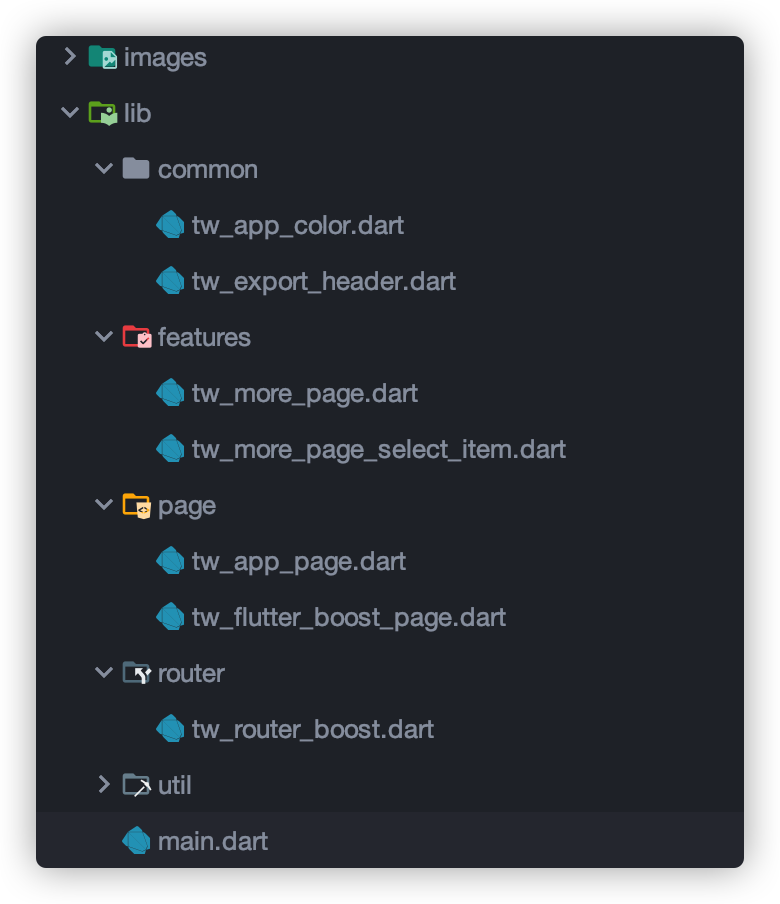
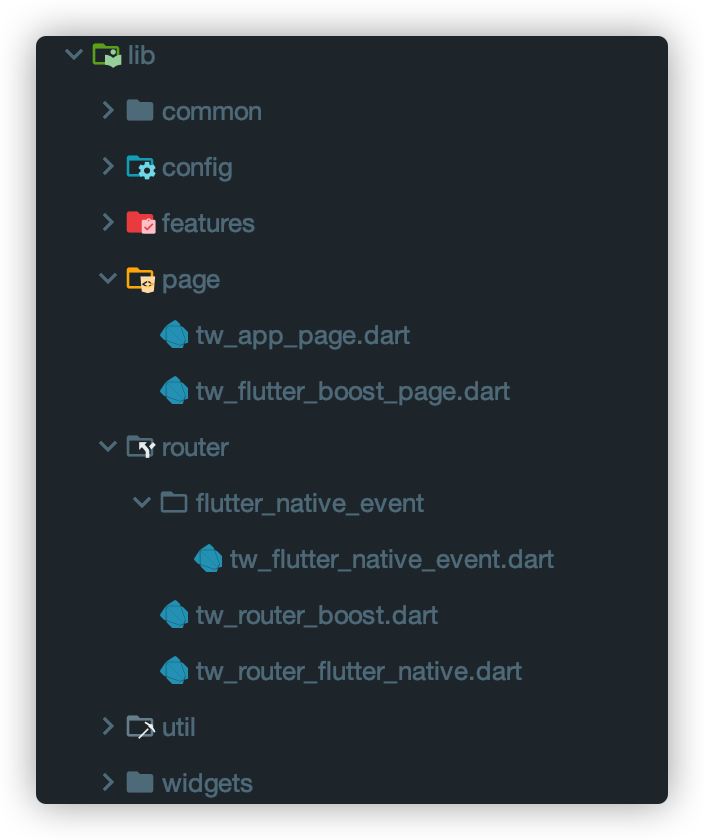
+++ 文档更新

Changed region(s): [[0.0312, 0.031, 0.9688, 0.9595]]

diff --git a/source/_posts/初尝-Flutter-与-Native-混合开发-FlutterBoost-应用.md b/source/_posts/初尝-Flutter-与-Native-混合开发-FlutterBoost-应用.md
@@ -1,15 +1,5 @@
----
-title: 初尝 Flutter 与 Native 混合开发 - FlutterBoost 应用
-date: 2020-08-14 17:38:13
-categories: "iOS"
-tags:
-  - iOS
-  - Flutter
----
-
-
 ## 前言
-> 在跨平台开发中 `Flutter` 优势很明显，简单总结 : <br>
+> 在跨平台开发中 `Flutter` 优势很明了，简单总结 : <br>
 > 1. 接近原生的性能  
 > 2. 热重载  
 > 3. 丰富的组件<br>
@@ -25,14 +15,13 @@ tags:
 3. 在 Podfile 文件添加如下脚本
 
 ```
-// 注意：![](https://p9-juejin.byteimg.com/tos-cn-i-k3u1fbpfcp/913f7748bf1841e3827501c40a6ff75f~tplv-k3u1fbpfcp-zoom-1.image)这个指定路径即是你的 flutter_module 项目的目标路径
+// 注意：这个指定路径即是你的 flutter_module 项目的目标路径
 flutter_application_path = '../../TWFlutter591/flutter_module'
 load File.join(flutter_application_path, '.ios', 'Flutter', 'podhelper.rb')
 
 target 'twhouse' do
 install_all_flutter_pods(flutter_application_path)
 end
-
 ```
 
 4. 注意项目报 flutter_export_environment.sh 文件路径错误
@@ -69,6 +58,7 @@ end
 > - TWFlutterJumpUtil 主要是处理 Flutter 与 Native 相互路由跳转间的业务逻辑
 > - TWFlutterNativePageName 定义页面路由名称
 > - TWFlutterNativeEventUtil 主要是处理 Flutter 与 Native 事件的业务逻辑
+
 
 ### 示例 TWFlutterUtil 部分
 > `TWFlutterUtil.swift`	
@@ -159,6 +149,7 @@ import flutter_boost
 }
 ```
 
+
 ### Native 打开 Flutter 页面
 
 > 页面采用文件 `page` `页面类名`，作为注册 id
@@ -174,14 +165,14 @@ TWFlutterUtil.open("TWMorePage",
     
 ```
 
-
-
 ## Flutter 部分
 
 ![](/images/2020/初尝-Flutter-与-Native-混合开发-FlutterBoost-应用/5.png)
 
 > - TWFlutterBoostPage 主要是 flutter 项目的入口页面
 > - TWRouterBoost 用于注册原生调用 flutter 的路由
+> - TWFlutterNativeEvent 用于 flutter 与 native 的事件处理
+> - TWRouterFlutterNative 路由跳转业务逻辑处理
 
 ### 示例 TWFlutterBoostPage 部分
 > `TWFlutterBoostPage`
@@ -232,6 +223,27 @@ class _TWFlutterBoostAppState extends State<TWFlutterBoostApp> {
 
   }
 }
+```
+
+> `TWRouterFlutterNative`
+
+```dart
+import 'package:flutter_boost/flutter_boost.dart';
+import 'package:flutter_module/features/mine/more/tw_more_page.dart';
+
+class TWRouterFlutterNative {
+
+  ///************** Flutter to Naitive *******************/
+  static const String tw_flutterOpenNative = 'TWFlutterOpenNative';
+
+  ///************** Naitive to Flutter *******************/
+  static const String tw_flutterMorePage = "TWMorePage";
+
+  /// 路由跳转逻辑处理 map
+  static Map<String, PageBuilder> routerPageBuilder = <String, PageBuilder>{
+    tw_flutterMorePage: (String pageName, Map<String, dynamic> params, String _) => TWMorePage(params: params,),
+  };
+}
 
 ```
 
@@ -240,21 +252,14 @@ class _TWFlutterBoostAppState extends State<TWFlutterBoostApp> {
 ```dart
 import 'package:flutter/material.dart';
 import 'package:flutter_boost/flutter_boost.dart';
-import 'package:flutter_module/features/tw_more_page.dart';
+import 'package:flutter_module/router/tw_router_flutter_native.dart';
 import 'package:flutter_module/util/tw_log.dart';
 
 class TWRouterBoost extends NavigatorObserver{
-  /// 初始化注册路由...
+
+  // 初始化注册路由...
   void registerRouter() {
-    FlutterBoost.singleton.registerPageBuilders(<String, PageBuilder>{
-      'TWMorePage': (String pageName, Map<String, dynamic> params, String _) {
-        String isDebug = params["isDebug"];
-        String isDark = params["isDark"];
-        String isLogin = params["isLogin"];
-        print("flutter_more_page params123:$params , $isDebug");
-        return TWMorePage(isLogin: isLogin == "1" ? true : false, isDebug: isDebug == "1" ? true : false,isDark: isDark == "1" ? true : false,);
-      },
-    });
+    FlutterBoost.singleton.registerPageBuilders(TWRouterFlutterNative.routerPageBuilder);
     FlutterBoost.singleton.addBoostNavigatorObserver(this);
   }
 
@@ -278,12 +283,41 @@ class TWRouterBoost extends NavigatorObserver{
 
 ```
 
+> TWFlutterNativeEvent
+
+```dart
+import 'package:flutter_boost/flutter_boost.dart';
+import 'package:flutter_module/config/tw_configure.dart';
+import 'package:flutter_module/util/tw_log.dart';
+
+class TWFlutterNativeEvent {
+
+  ///************** Native 发送给 Flutter 事件名称 *******************/
+  static final String tw_flutterNativeEventConfigureInfo = "EventConfigureInfo";
+
+  ///************** Flutter 发送给 Native 事件名称 *******************/
+
+  ///************** Native 发送给 Flutter 事件统一处理 *******************/
+
+  /// 监听启动配置信息
+  static void addConfigureInfo() {
+    TWLog("开始配置启动信息...");
+    FlutterBoost.singleton.channel.addEventListener(TWFlutterNativeEvent.tw_flutterNativeEventConfigureInfo,
+            (name, arguments) {
+          TWConfigure.singleton.configure(arguments);
+          return;
+        });
+  }
+}
+```
+
+
 ### Flutter 打开 Native 页面
 > 采用项目路由方式打开
 > 注意：`TWFlutterOpenNative` 标识 ID ，即是标记从 Flutter 页面打开 Native 页面 ，打开 Native 页面路由 exts 字段
 > 路由部分，建议是原来项目有的，统一Android 和 iOS 的路由规则标准，我们 iOS 采用 MGJRouter , Android 采用 ARouter。定义一套项目的路由 URL 标准
 
-```
+```dart
   ///************** Private Method *******************/
   void clickAction(int index) {
     TWLog("點擊 index = $index");
@@ -298,9 +332,7 @@ class TWRouterBoost extends NavigatorObserver{
 
 > 用 flutter 重构更多页面, 体验感觉和原生差不多
 
-![](/images/2020/初尝-Flutter-与-Native-混合开发-FlutterBoost-应用/6.jpg)
-
-
+![](/images/2020/初尝-Flutter-与-Native-混合开发-FlutterBoost-应用/6.png)
 
 ## 优秀的第三方库
 
@@ -317,6 +349,9 @@ class TWRouterBoost extends NavigatorObserver{
 | 刷新控件 | [flutter_pulltorefresh](https://github.com/peng8350/flutter_pulltorefresh) | 1.6k |
 | 轮播 | [flutter_swiper](https://github.com/best-flutter/flutter_swiper) | 2.6k |
 | 本地通知 | [flutter_local_notifications](https://github.com/MaikuB/flutter_local_notifications) | 1.1k |
+| Widgets | [flukit](https://github.com/flutterchina/flukit) | 2.6k |
+| Toast | [flutter_oktoast](https://github.com/OpenFlutter/flutter_oktoast) | 288 |
+| Toast | [FlutterToast](https://github.com/ponnamkarthik/FlutterToast) | 818 |
 | 菜单 | [flutter_slidable](https://github.com/letsar/flutter_slidable) | 1.4k |
 | 地图 | [flutter_amap](https://github.com/best-flutter/flutter_amap) | 137 |
 | 地图 | [flutter_amap_location](https://github.com/best-flutter/flutter_amap_location) | 249 |
